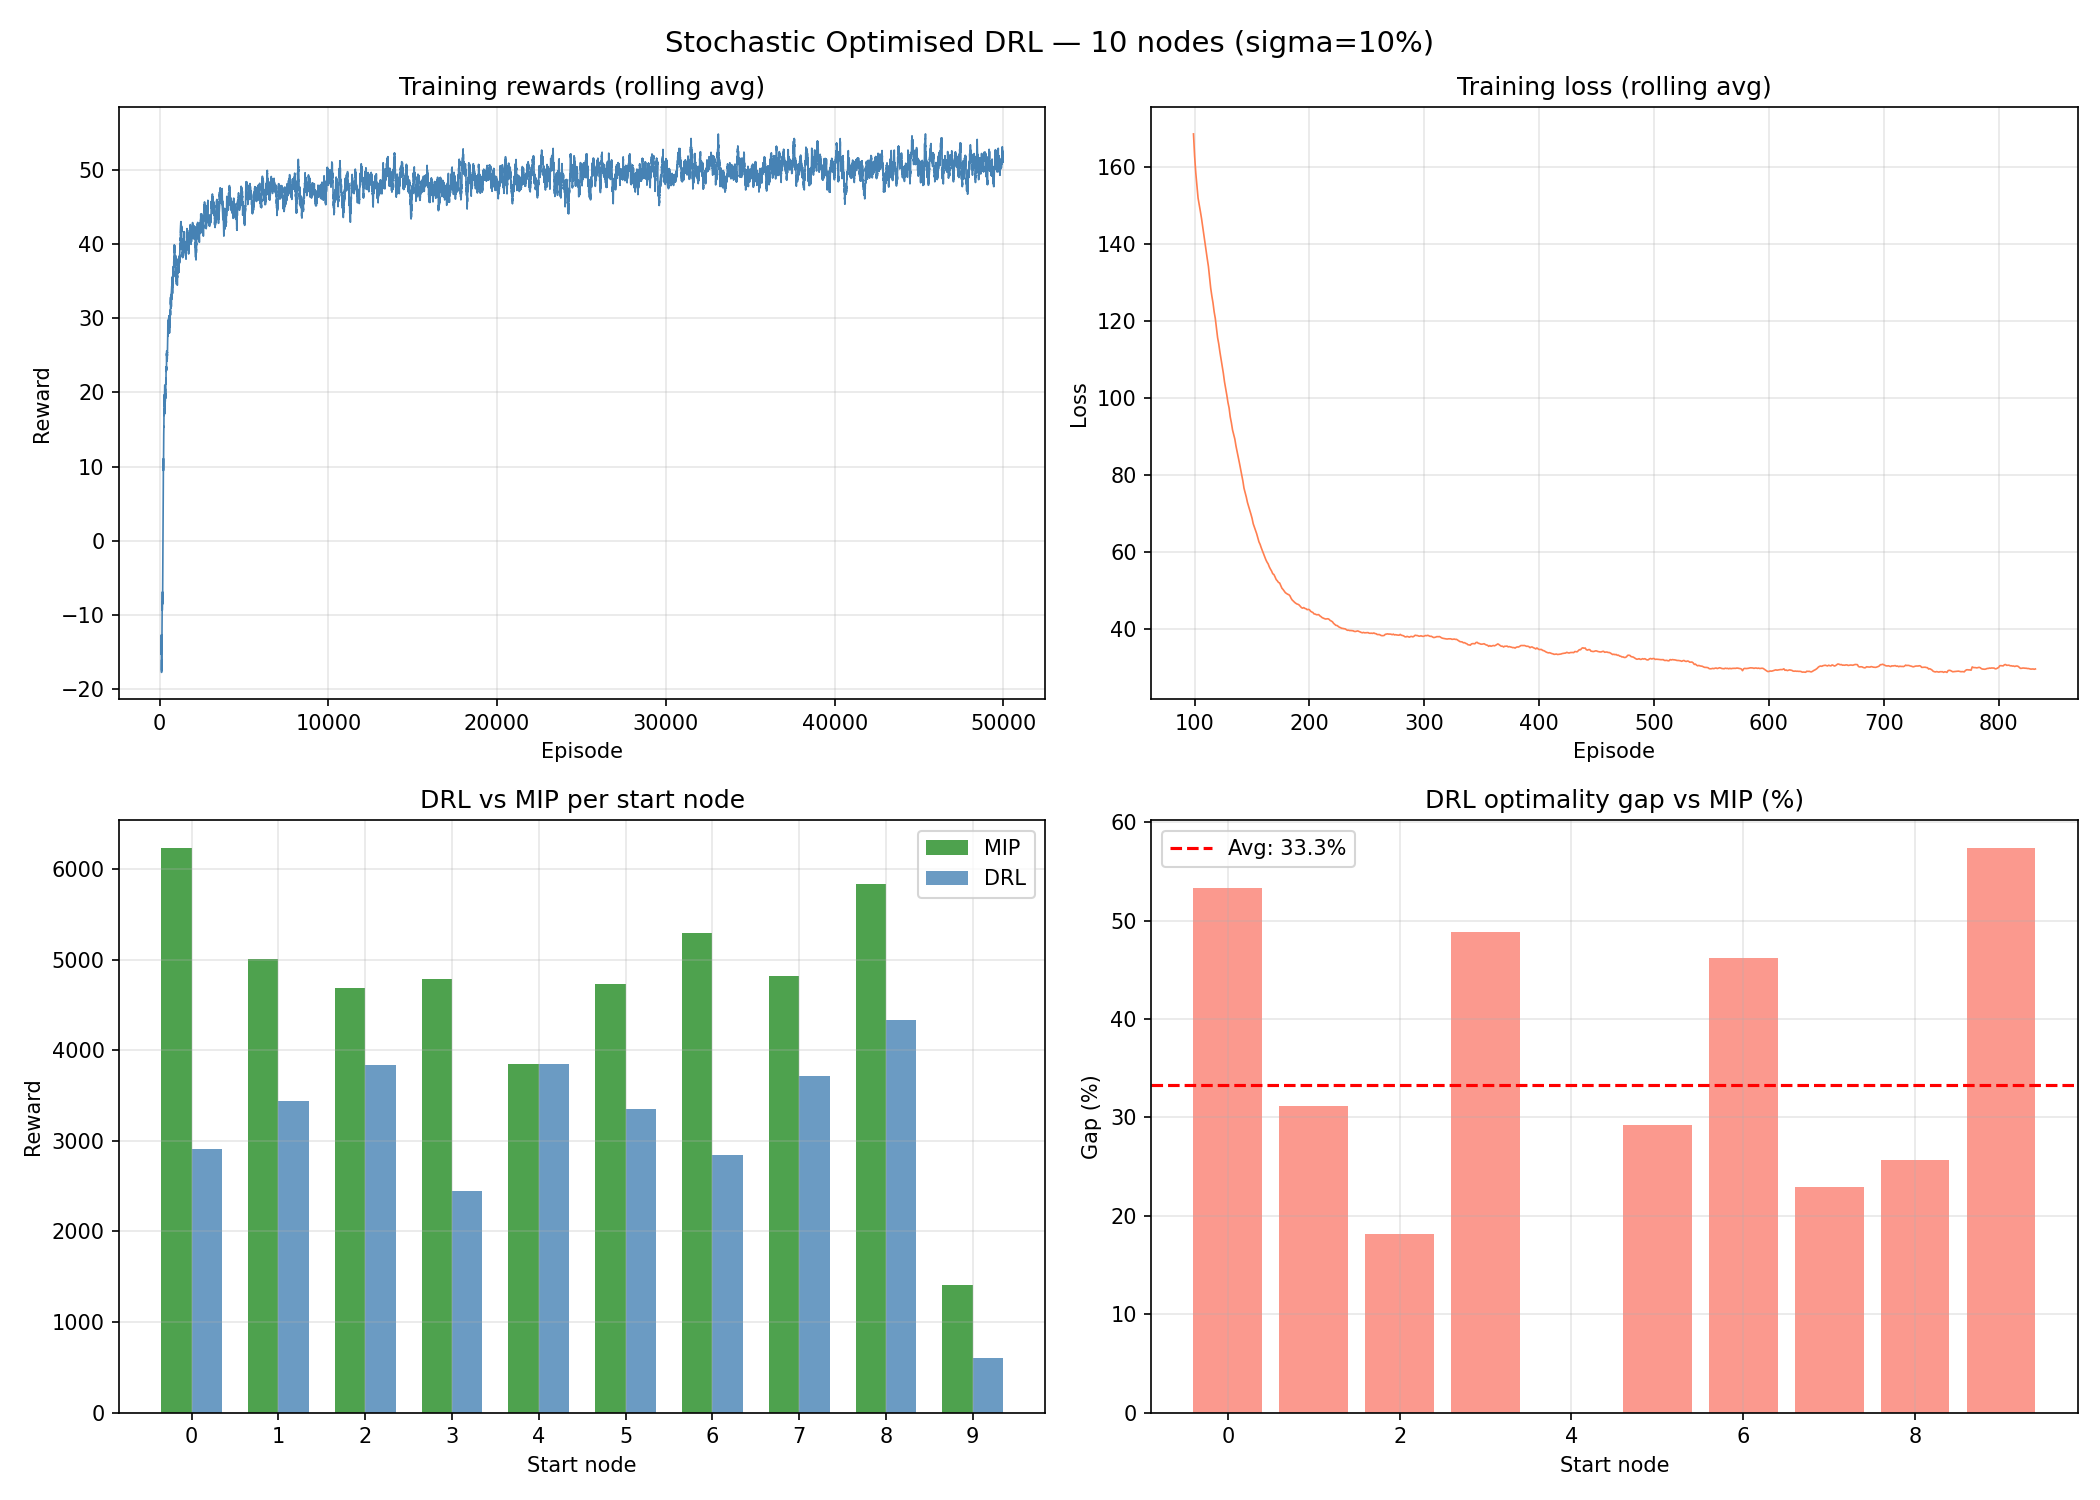
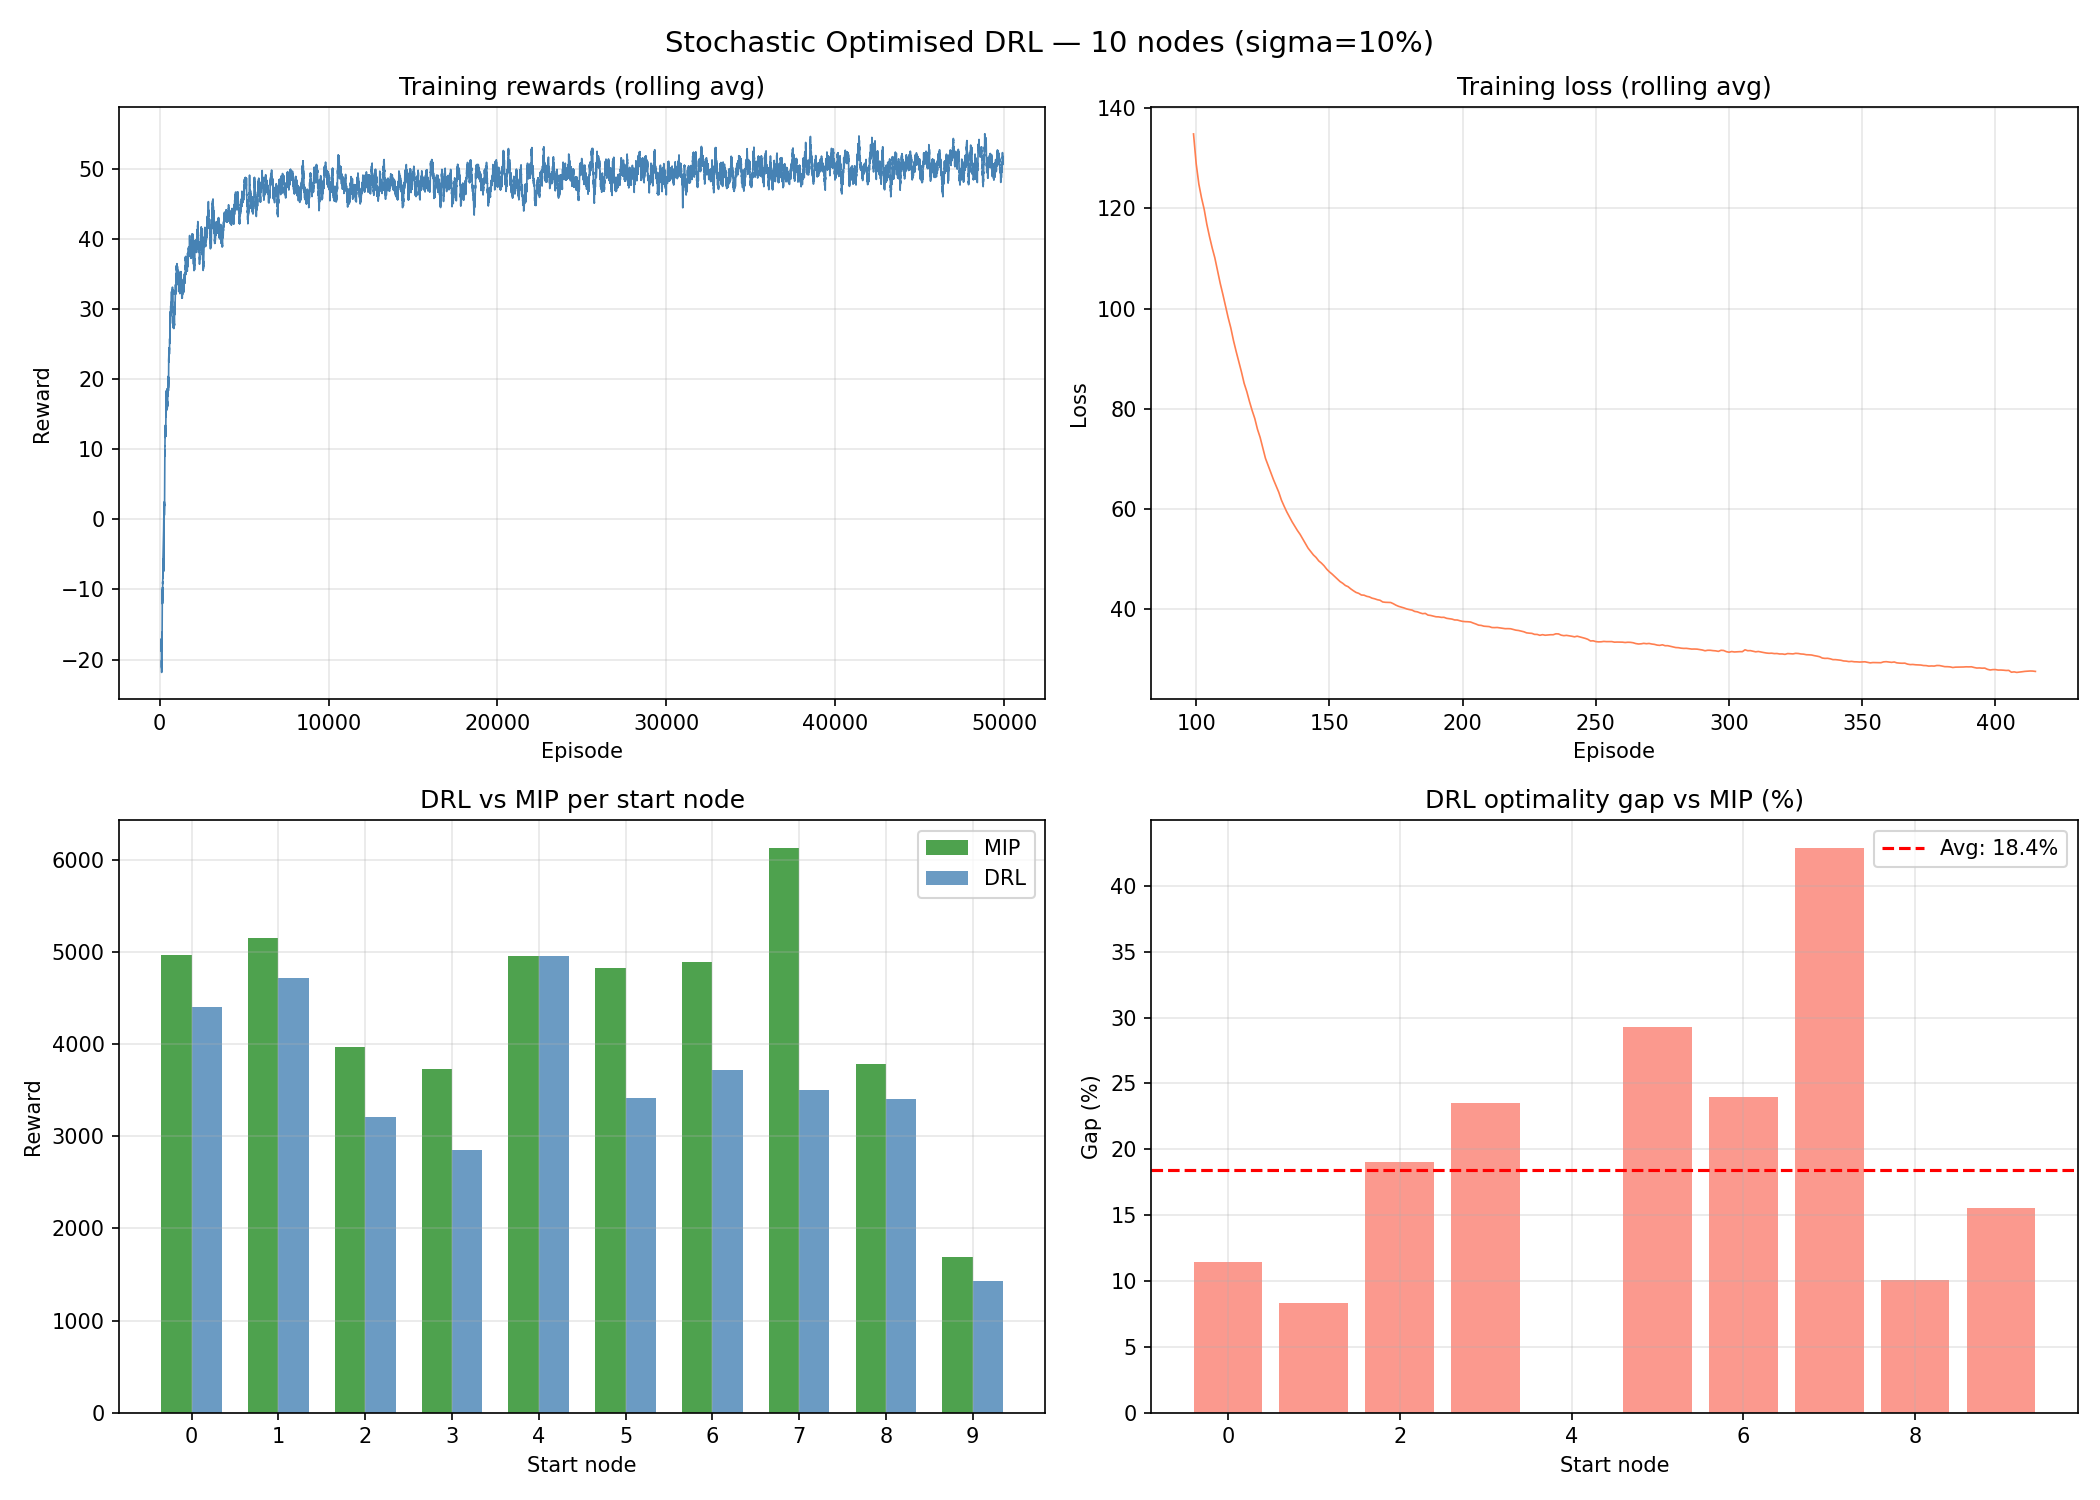
Disminucion de 15% de avg GAP vs la primera version estable del modelo

diff --git a/evaluation.py b/evaluation.py
@@ -327,6 +327,59 @@ def save_results(results_df, summary_rows, output_path):
     print(f"Results saved → {output_path}")
 
 
+def plot_ppo_diagnostics(training_log: list, num_nodes: int, output_path: str):
+    """Gráfica 2×3 con métricas internas de PPO por update.
+
+    Métricas graficadas
+    -------------------
+    Fila 1 : Reward promedio | Explained Variance | Entropía
+    Fila 2 : Policy Loss + Value Loss | KL Divergence | Clip Fraction
+    """
+    try:
+        import pandas as pd
+        df = pd.DataFrame(training_log)
+
+        fig, axes = plt.subplots(2, 3, figsize=(18, 10))
+        fig.suptitle(
+            f'PPO Internal Diagnostics — {num_nodes} nodes '
+            f'(sigma={NOISE_FRACTION*100:.0f}%)', fontsize=14
+        )
+
+        updates = df["update"].values
+
+        def _plot(ax, y, title, ylabel, color, hline=None, hline_label=None):
+            ax.plot(updates, y, linewidth=0.9, color=color)
+            ax.set_title(title); ax.set_xlabel("PPO Update"); ax.set_ylabel(ylabel)
+            ax.grid(True, alpha=0.3)
+            if hline is not None:
+                ax.axhline(hline, color="red", linestyle="--", linewidth=0.8,
+                           label=hline_label or f"{hline}")
+                ax.legend(fontsize=8)
+
+        _plot(axes[0, 0], df["reward"],       "Avg Reward per Update",   "Reward",       "steelblue")
+        _plot(axes[0, 1], df["explained_var"], "Critic Explained Variance", "Expl. Var.", "mediumseagreen",
+              hline=0.5, hline_label="threshold 0.5")
+        _plot(axes[0, 2], df["entropy"],       "Policy Entropy",          "Entropy",      "mediumpurple")
+
+        ax_loss = axes[1, 0]
+        ax_loss.plot(updates, df["policy_loss"], linewidth=0.9, color="coral",    label="Policy loss")
+        ax_loss.plot(updates, df["value_loss"],  linewidth=0.9, color="goldenrod", label="Value loss")
+        ax_loss.set_title("Policy & Value Loss"); ax_loss.set_xlabel("PPO Update")
+        ax_loss.set_ylabel("Loss"); ax_loss.grid(True, alpha=0.3); ax_loss.legend(fontsize=8)
+
+        _plot(axes[1, 1], df["kl_divergence"], "Approx KL Divergence",   "KL",           "tomato",
+              hline=0.02, hline_label="target 0.02")
+        _plot(axes[1, 2], df["clip_fraction"], "PPO Clip Fraction",       "Clip Frac.",   "darkorange",
+              hline=0.1, hline_label="ref 0.10")
+
+        plt.tight_layout()
+        plt.savefig(output_path, dpi=150)
+        plt.close()
+        print(f"PPO diagnostics plot saved → {output_path}")
+    except Exception as e:
+        print(f"Warning: could not generate PPO diagnostics plot: {e}")
+
+
 def plot_diagnostics(episode_rewards, episode_losses, results_df,
                      num_nodes, output_path):
     try:

diff --git a/main.py b/main.py
@@ -37,7 +37,7 @@ from config import (
 from state import get_state_size
 from problem_data import load_matrices
 from evaluation import (
-    run_solver_comparison, save_results, plot_diagnostics,
+    run_solver_comparison, save_results, plot_diagnostics, plot_ppo_diagnostics,
 )
 
 # ── Seleccionar modo ──────────────────────────────────────────────────────────
@@ -108,7 +108,7 @@ def _run_am(
 
     set_seeds(SEED)
     t0 = time.time()
-    agent_am, critic, ep_rewards, ep_losses, _ = run_am_training(
+    agent_am, critic, ep_rewards, ep_losses, training_log = run_am_training(
         time_matrix, rate_stack, loads_stack,
         distance_arr, diesel_arr, noise_sigma, NUM_NODES,
     )
@@ -119,7 +119,7 @@ def _run_am(
         {"agent": agent_am.state_dict(), "critic": critic.state_dict()},
         os.path.join(cwd, f"am_checkpoint_{NUM_NODES}nodes.pt"),
     )
-    return agent_am, ep_rewards, ep_losses, train_time
+    return agent_am, ep_rewards, ep_losses, train_time, training_log
 
 
 def _evaluate_and_report(
@@ -207,7 +207,7 @@ def main():
             )
 
         if MODE in ("AM", "BOTH"):
-            agent_am, ep_r, ep_l, t = _run_am(
+            agent_am, ep_r, ep_l, t, training_log = _run_am(
                 NUM_NODES, time_matrix, rate_stack, loads_stack,
                 distance_arr, diesel_arr, noise_sigma, cwd,
             )
@@ -216,6 +216,9 @@ def main():
                 distance_arr, diesel_arr, noise_sigma, ep_r, ep_l, t,
                 summary_rows, cwd, label="AM",
             )
+            suffix = f"_stochastic_sigma{NOISE_FRACTION:.0%}" if STOCHASTIC_MODE else "_deterministic"
+            ppo_plot_path = os.path.join(cwd, f"PPO_Diagnostics{suffix}_AM.png")
+            plot_ppo_diagnostics(training_log, NUM_NODES, ppo_plot_path)
 
     print("\nDone!")
 

diff --git a/am_training.py b/am_training.py
@@ -221,8 +221,8 @@ def run_am_training(
     n_layers:               int   = 3, 
     d_ff:                   int   = 512,
     n_episodes_per_update:  int   = 120,
-    n_ppo_epochs:           int   = 4,    
-    ppo_batch_size:         int   = 32,
+    n_ppo_epochs:           int   = 6,    
+    ppo_batch_size:         int   = 64,
     lr:                     float = 3e-5, 
     gamma:                  float = 0.99,
     gae_lambda:             float = 0.95,
